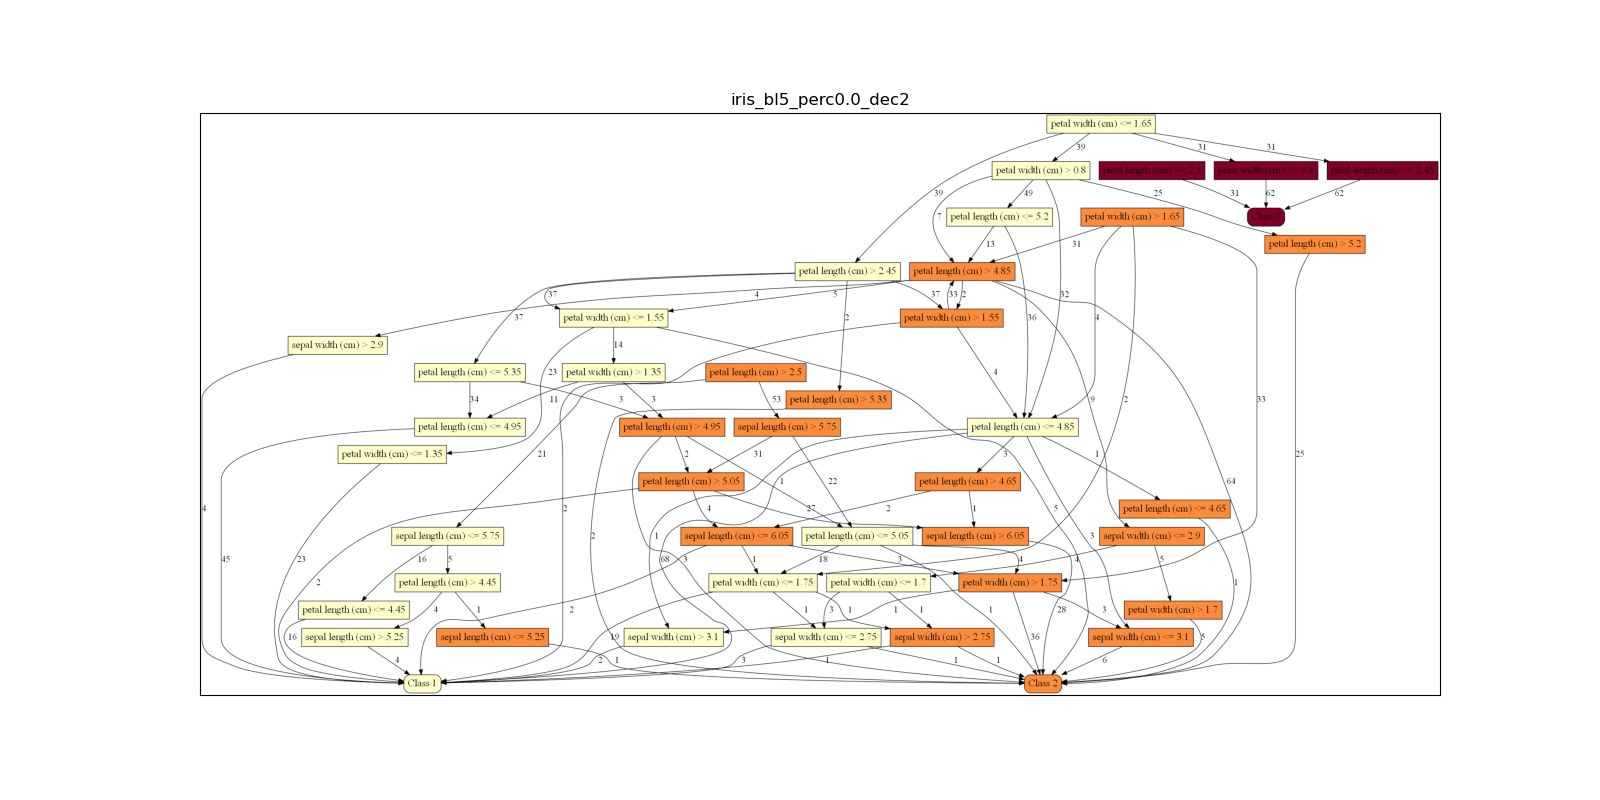
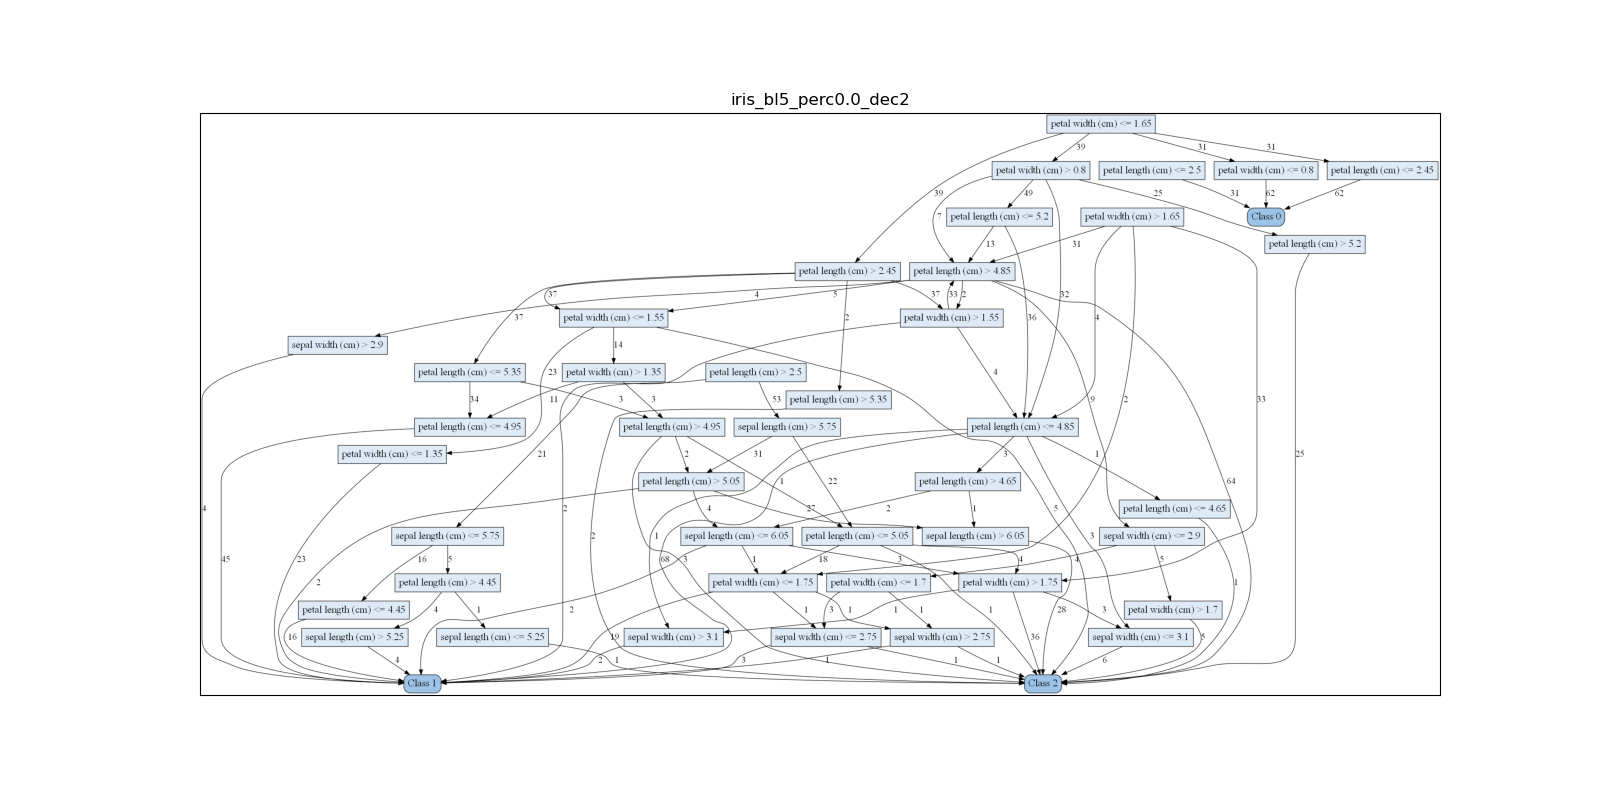
standard_sklearn fixed

diff --git a/dpg/sklearn_standard_dpg.py b/dpg/sklearn_standard_dpg.py
@@ -10,11 +10,18 @@ from sklearn.datasets import (
 )
 
 from .core import digraph_to_nx, get_dpg, get_dpg_node_metrics, get_dpg_metrics
-from .visualizer import plot_dpg#, plot_custom_map#, plot_communities_map
-
-
+from .visualizer import plot_dpg
 
 def select_dataset(name):
+    """
+    Selects a standard sklearn dataset based on the provided name.
+
+    Args:
+    name: The name of the dataset to load.
+
+    Returns:
+    The selected dataset.
+    """
     datasets = {
         "iris": load_iris(),
         "diabetes": load_diabetes(),
@@ -25,39 +32,37 @@ def select_dataset(name):
 
     return datasets.get(name.lower(), None)
 
-# def select_custom_dataset(path, target_column):
-#     df = pd.read_csv(path, sep=',')
-#     target = df[target_column]
-#     df.drop(columns=[target_column], inplace=True)
-#     df_cat = df.select_dtypes('object')
-#     df_categorical = df_cat.columns
-#     preprocessor = ColumnTransformer(
-#         transformers=[('onehot', OneHotEncoder(), df_categorical)],
-#         remainder='passthrough')
-#     data = preprocessor.fit_transform(df)
-#     features = preprocessor.get_feature_names_out()
 
-#     return data, features, target
+def test_base_sklearn(datasets, n_learners, perc_var, decimal_threshold, file_name=None, plot=False, save_plot_dir="examples/", attribute=None, communities=False, class_flag=True):
+    """
+    Trains a Random Forest classifier on a selected dataset, evaluates its performance, and optionally plots the DPG.
 
-def test_base_sklearn(datasets, n_learners, perc_var, decimal_threshold, plot=False, file_name=None):
+    Args:
+    datasets: The name of the dataset to use.
+    n_learners: The number of trees in the Random Forest.
+    perc_var: Threshold value indicating the desire to retain only those paths that occur with a frequency exceeding a specified proportion across the trees.
+    decimal_threshold: Decimal precision of each feature. 
+    file_name: The name of the file to save the evaluation results. If None, prints the results to the console.
+    plot: Boolean indicating whether to plot the DPG. Default is False.
+    save_plot_dir: Directory to save the plot image. Default is "examples/".
+    attribute: A specific node attribute to visualize. Default is None.
+    communities: Boolean indicating whether to visualize communities. Default is False.
+    class_flag: Boolean indicating whether to highlight class nodes. Default is True.
+
+    Returns:
+    df: A pandas DataFrame containing node metrics.
+    df_dpg: A pandas DataFrame containing DPG metrics.
+    """
     
     # Load dataset
     dt = select_dataset(datasets)
-
-    # # Load custom dataset
-    # data, features, target = select_custom_dataset(datasets, target_column = 'HeartDisease')
     
-    # Split dataset
+    # Split dataset into training and test sets
     X_train, X_test, y_train, y_test = train_test_split(
         dt.data, dt.target, test_size=0.3, random_state=42
     )
-
-    # # Split custom dataset
-    # X_train, X_test, y_train, y_test = train_test_split(
-    #     data, target, test_size=0.3, random_state=42
-    # )
     
-    # RF
+    # Train Random Forest classifier
     rf_classifier = RandomForestClassifier(n_estimators=n_learners, random_state=42)
     rf_classifier.fit(X_train, y_train)
     y_pred = rf_classifier.predict(X_test)
@@ -67,16 +72,15 @@ def test_base_sklearn(datasets, n_learners, perc_var, decimal_threshold, plot=Fa
     confusion = confusion_matrix(y_test, y_pred)
     classification_rep = classification_report(y_test, y_pred)
 
-    # Print the results
+    # Print or save the evaluation results
     if file_name is not None:
-        f = open(file_name, "w")
-        f.write(f'Accuracy: {accuracy:.2f}\n')
-        f.write('\nConfusion Matrix:\n')
-        for i in confusion:
-            f.write(f'{str(i)}\n')
-        f.write('\nClassification Report:')
-        f.write(classification_rep)
-        f.close()
+        with open(file_name, "w") as f:
+            f.write(f'Accuracy: {accuracy:.2f}\n')
+            f.write('\nConfusion Matrix:\n')
+            for i in confusion:
+                f.write(f'{str(i)}\n')
+            f.write('\nClassification Report:')
+            f.write(classification_rep)
     else:
         print(f'Accuracy: {accuracy:.2f}')
         print('Confusion Matrix:')
@@ -84,21 +88,21 @@ def test_base_sklearn(datasets, n_learners, perc_var, decimal_threshold, plot=Fa
         print('Classification Report:')
         print(classification_rep)
 
-    # dpg Extraction
+    # Extract DPG
     dot = get_dpg(X_train, dt.feature_names, rf_classifier, perc_var, decimal_threshold)
     
-    # # dpg Extraction custom dataset
-    # dot = get_dpg(X_train, features, rf_classifier, perc_var, decimal_threshold)
-    
+    # Convert Graphviz Digraph to NetworkX DiGraph
     dpg_model, nodes_list = digraph_to_nx(dot)
 
     if len(nodes_list) < 2:
         print("Warning: Less than two nodes resulted.")
         return
     
+    # Get metrics from the DPG
     df_dpg = get_dpg_metrics(dpg_model, nodes_list)
     df = get_dpg_node_metrics(dpg_model, nodes_list)
     
+    # Plot the DPG if requested
     if plot:
         plot_name = (
             datasets
@@ -115,9 +119,10 @@ def test_base_sklearn(datasets, n_learners, perc_var, decimal_threshold, plot=Fa
             dot,
             df,
             df_dpg,
-            attribute='Betweness centrality',
-            # communities=True,
-            class_flag=True
+            save_dir=save_plot_dir,
+            attribute=attribute,
+            communities=communities,
+            class_flag=class_flag
         )
     
     return df, df_dpg
